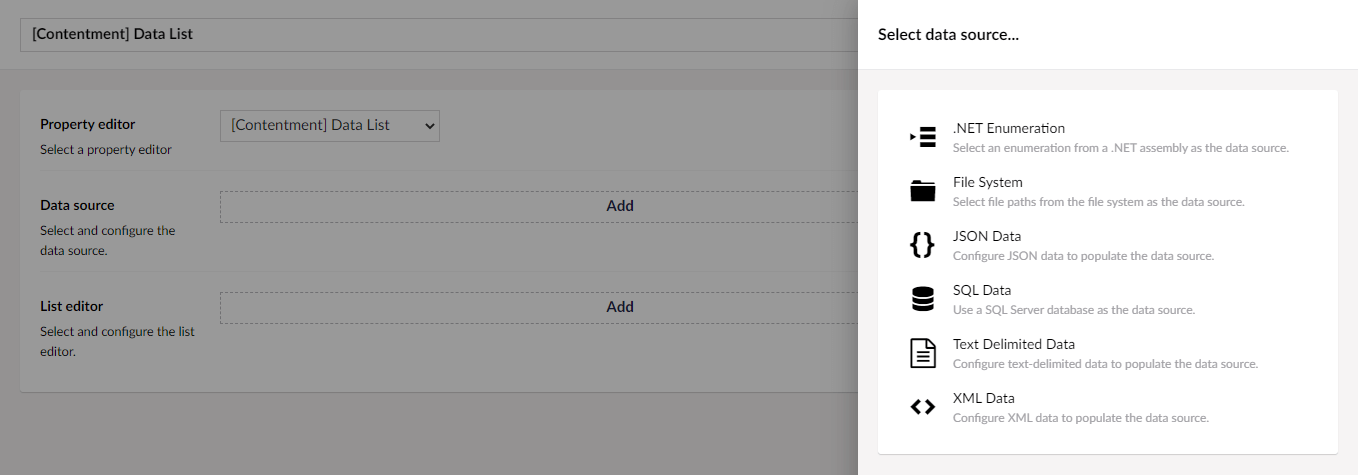
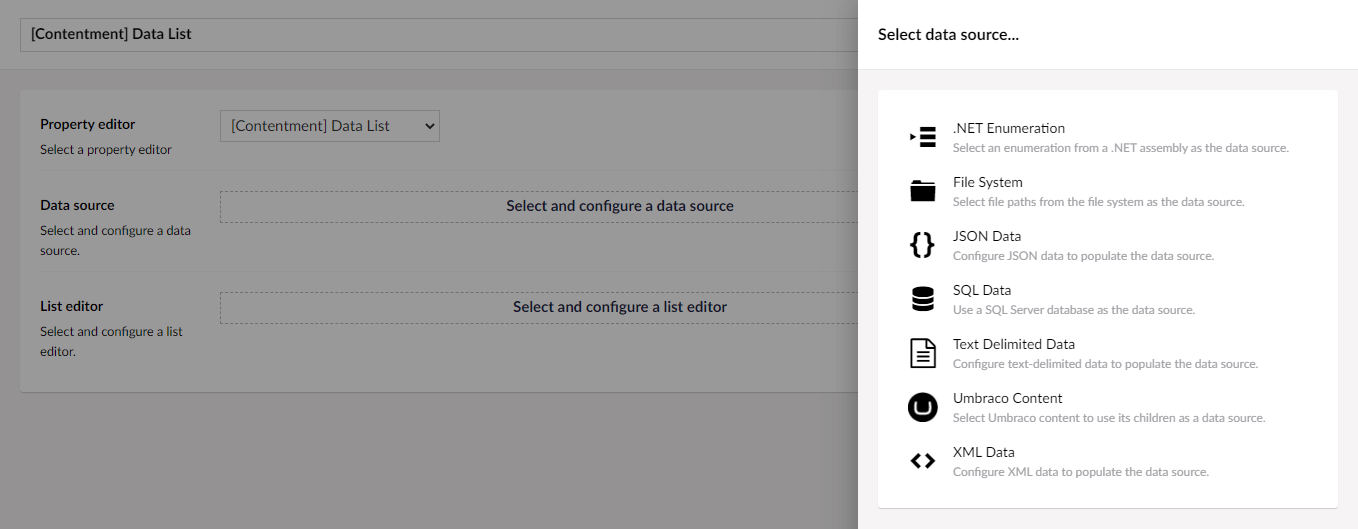
DataList - updated docs + screengrabs
To include the Umbraco Content data-source.

diff --git a/docs/editors/data-list.md b/docs/editors/data-list.md
@@ -20,7 +20,7 @@ The two main fields are "**Data source**" and "**List editor**".
 
 ![Configuration Editor for Data List - empty state](data-list--configuration-editor-01.png)
 
-Selecting the **Data source**, you will be presented with a selection of data sources, including .NET enumeration, file system, SQL, CSV, JSON and XML data.
+Selecting the **Data source**, you will be presented with a selection of data sources, including .NET enumeration, file system, Umbraco content, SQL, CSV, JSON and XML data.
 
 ![Configuration Editor for Data List - available data sources](data-list--configuration-editor-02.png)
 
